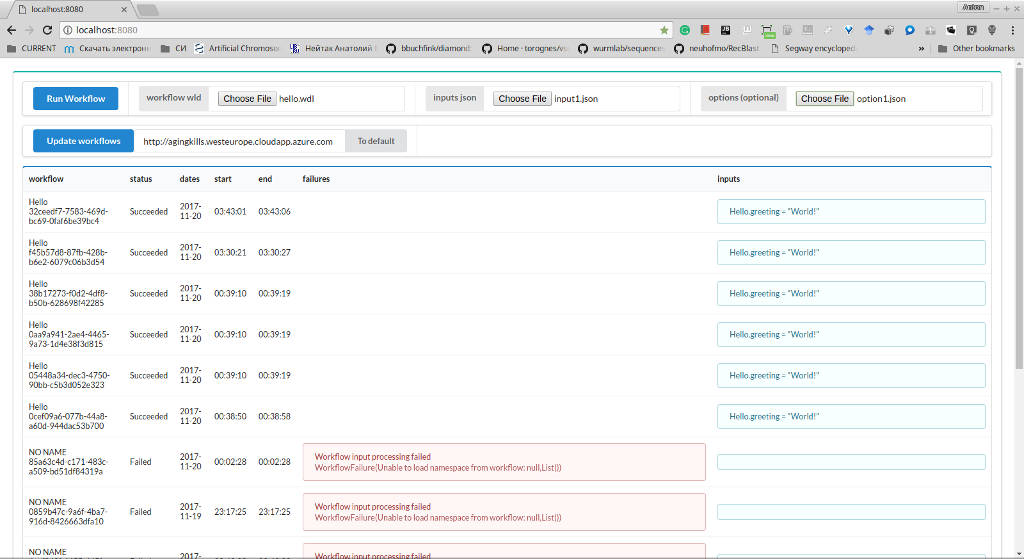
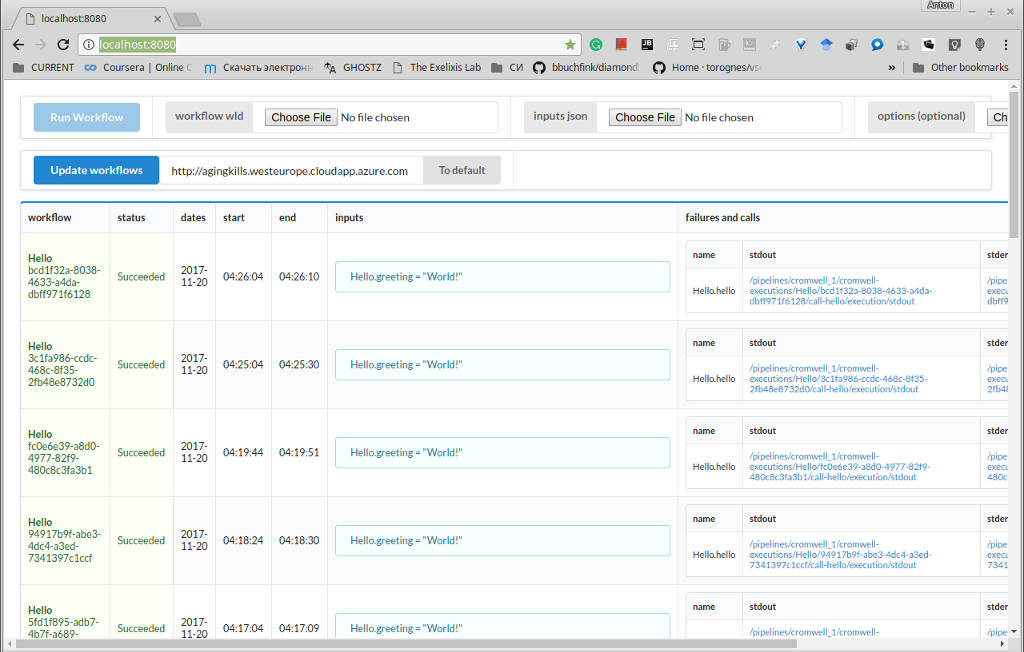
workflowsview improvements

diff --git a/README.md b/README.md
@@ -66,7 +66,7 @@ reStart
 ```
 It is also published as a Docker container. You can run it as:
 ```bash
-docker run -p 8080:8080 quay.io/comp-bio-aging/cromwell-web
+docker run -p 8080:8080 quay.io/comp-bio-aging/cromwell-web:0.0.10
 ```
 
 ![Screenshot](/screenshot.jpg?raw=true "CromwellWeb screenshot")
